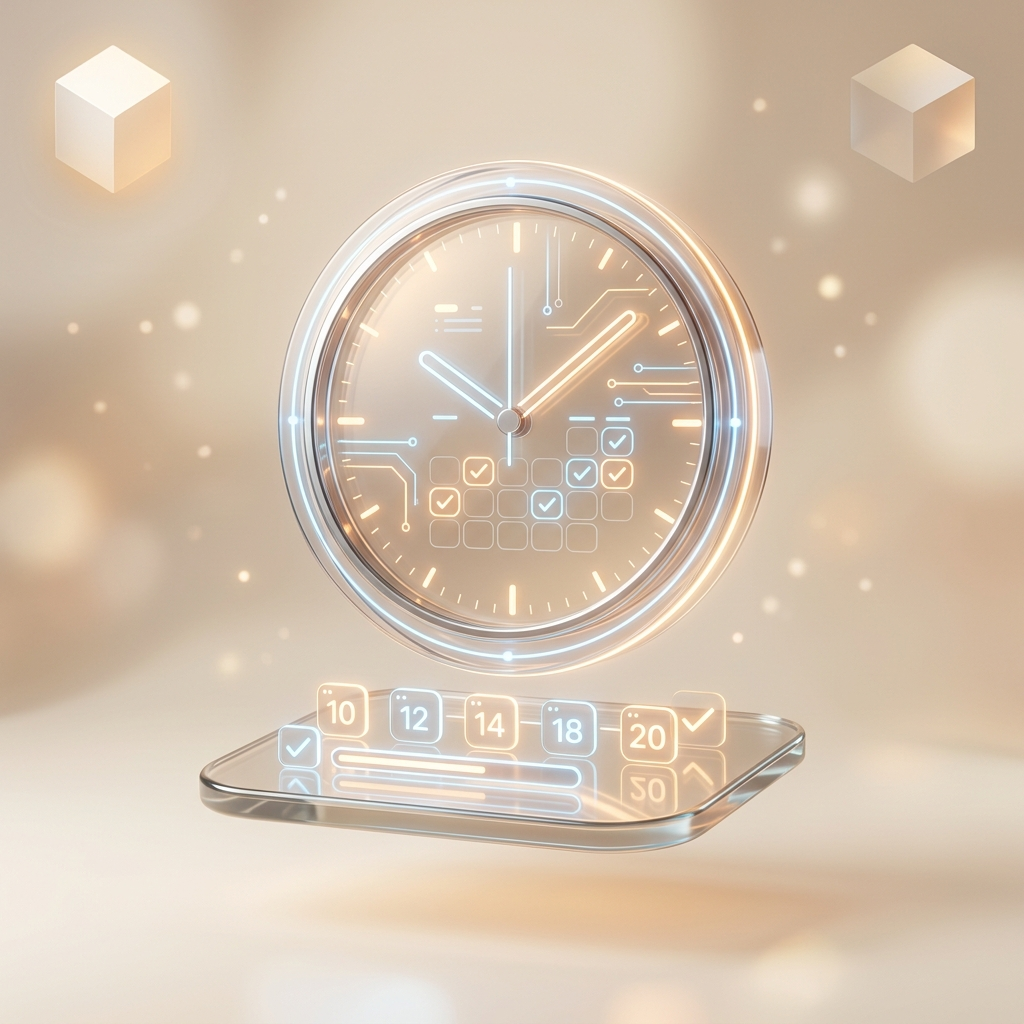
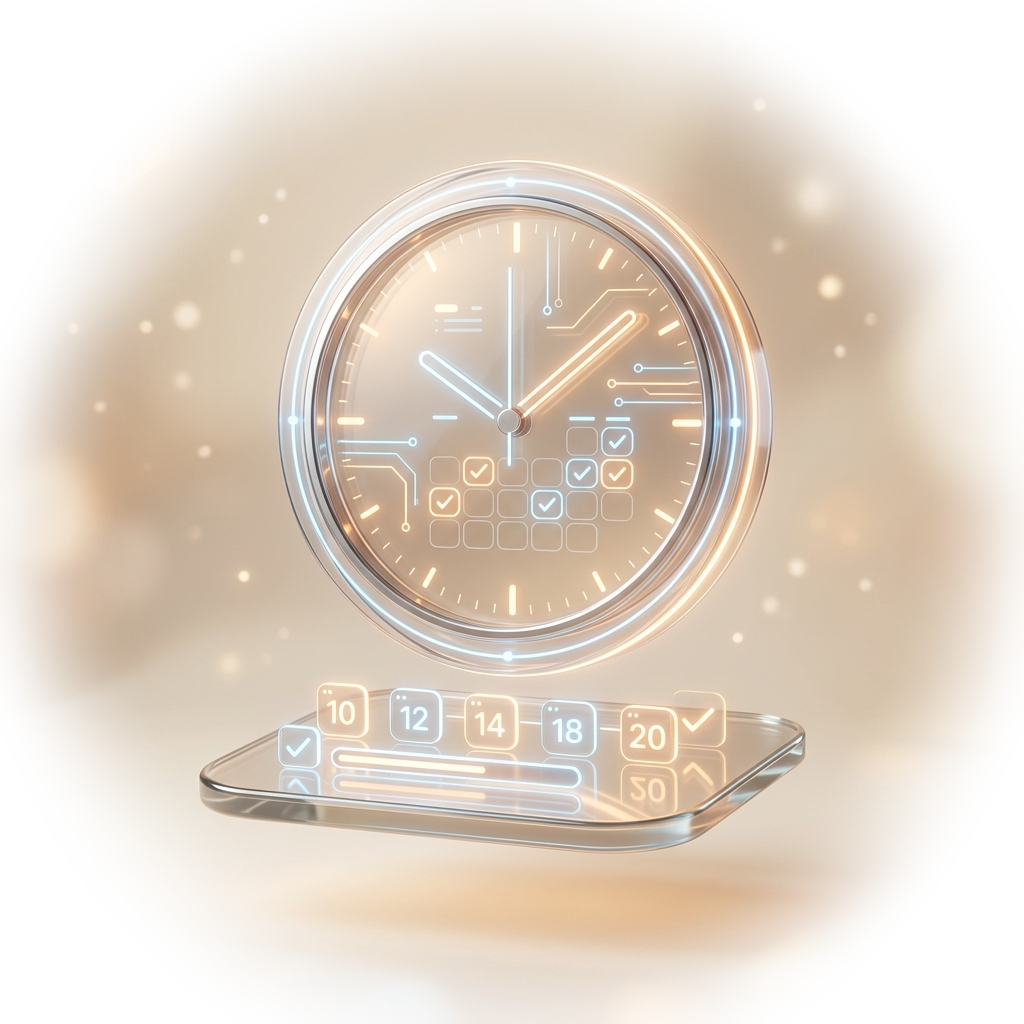
Make hero visuals transparent

diff --git a/index.html b/index.html
@@ -946,9 +946,9 @@
       position: absolute;
       width: clamp(110px, 14vw, 200px);
       aspect-ratio: 1;
-      border: 1px solid rgba(23,23,23,.14) !important;
-      border-radius: clamp(20px, 3vw, 34px) !important;
-      box-shadow: 0 24px 54px rgba(50,45,34,.12) !important;
+      border: 0 !important;
+      border-radius: 0 !important;
+      box-shadow: none !important;
       z-index: -1;
       pointer-events: none;
       opacity: 0.88;
@@ -957,9 +957,7 @@
     .sheet-hero::before {
       left: clamp(18px, 4vw, 68px);
       top: clamp(62px, 8vw, 118px);
-      background:
-        url('/uploads/hero_cube.png') no-repeat center / contain,
-        linear-gradient(135deg, rgba(255,255,255,.96), rgba(246,239,224,.78)) !important;
+      background: url('/uploads/hero_cube.png') no-repeat center / contain !important;
       transform: rotate(-10deg);
       animation: float-slow-left 9s ease-in-out infinite;
     }
@@ -967,9 +965,7 @@
     .sheet-hero::after {
       right: clamp(18px, 4vw, 68px);
       bottom: clamp(60px, 7vw, 114px);
-      background:
-        url('/uploads/hero_clock.png') no-repeat center / contain,
-        linear-gradient(135deg, rgba(255,255,255,.96), rgba(246,239,224,.78)) !important;
+      background: url('/uploads/hero_clock.png') no-repeat center / contain !important;
       transform: rotate(12deg);
       animation: float-slow-right 10s ease-in-out infinite;
     }